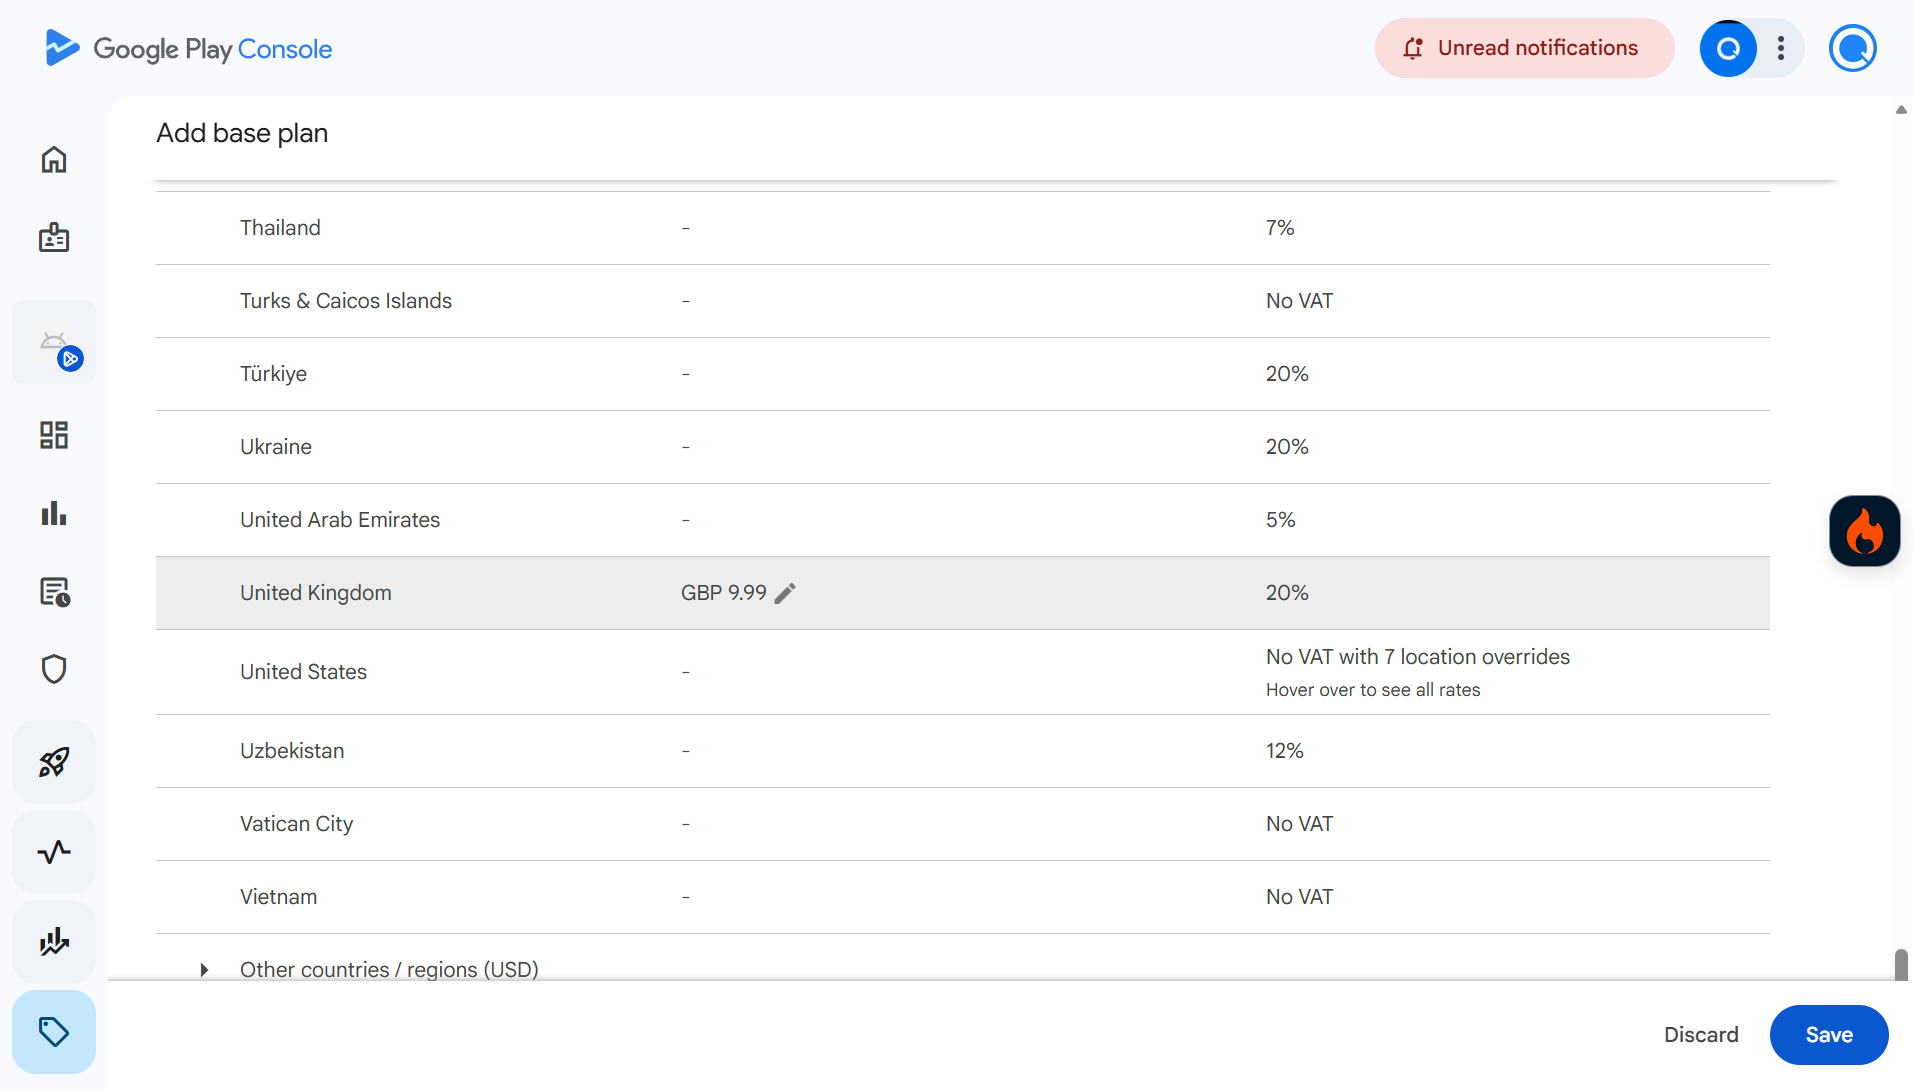
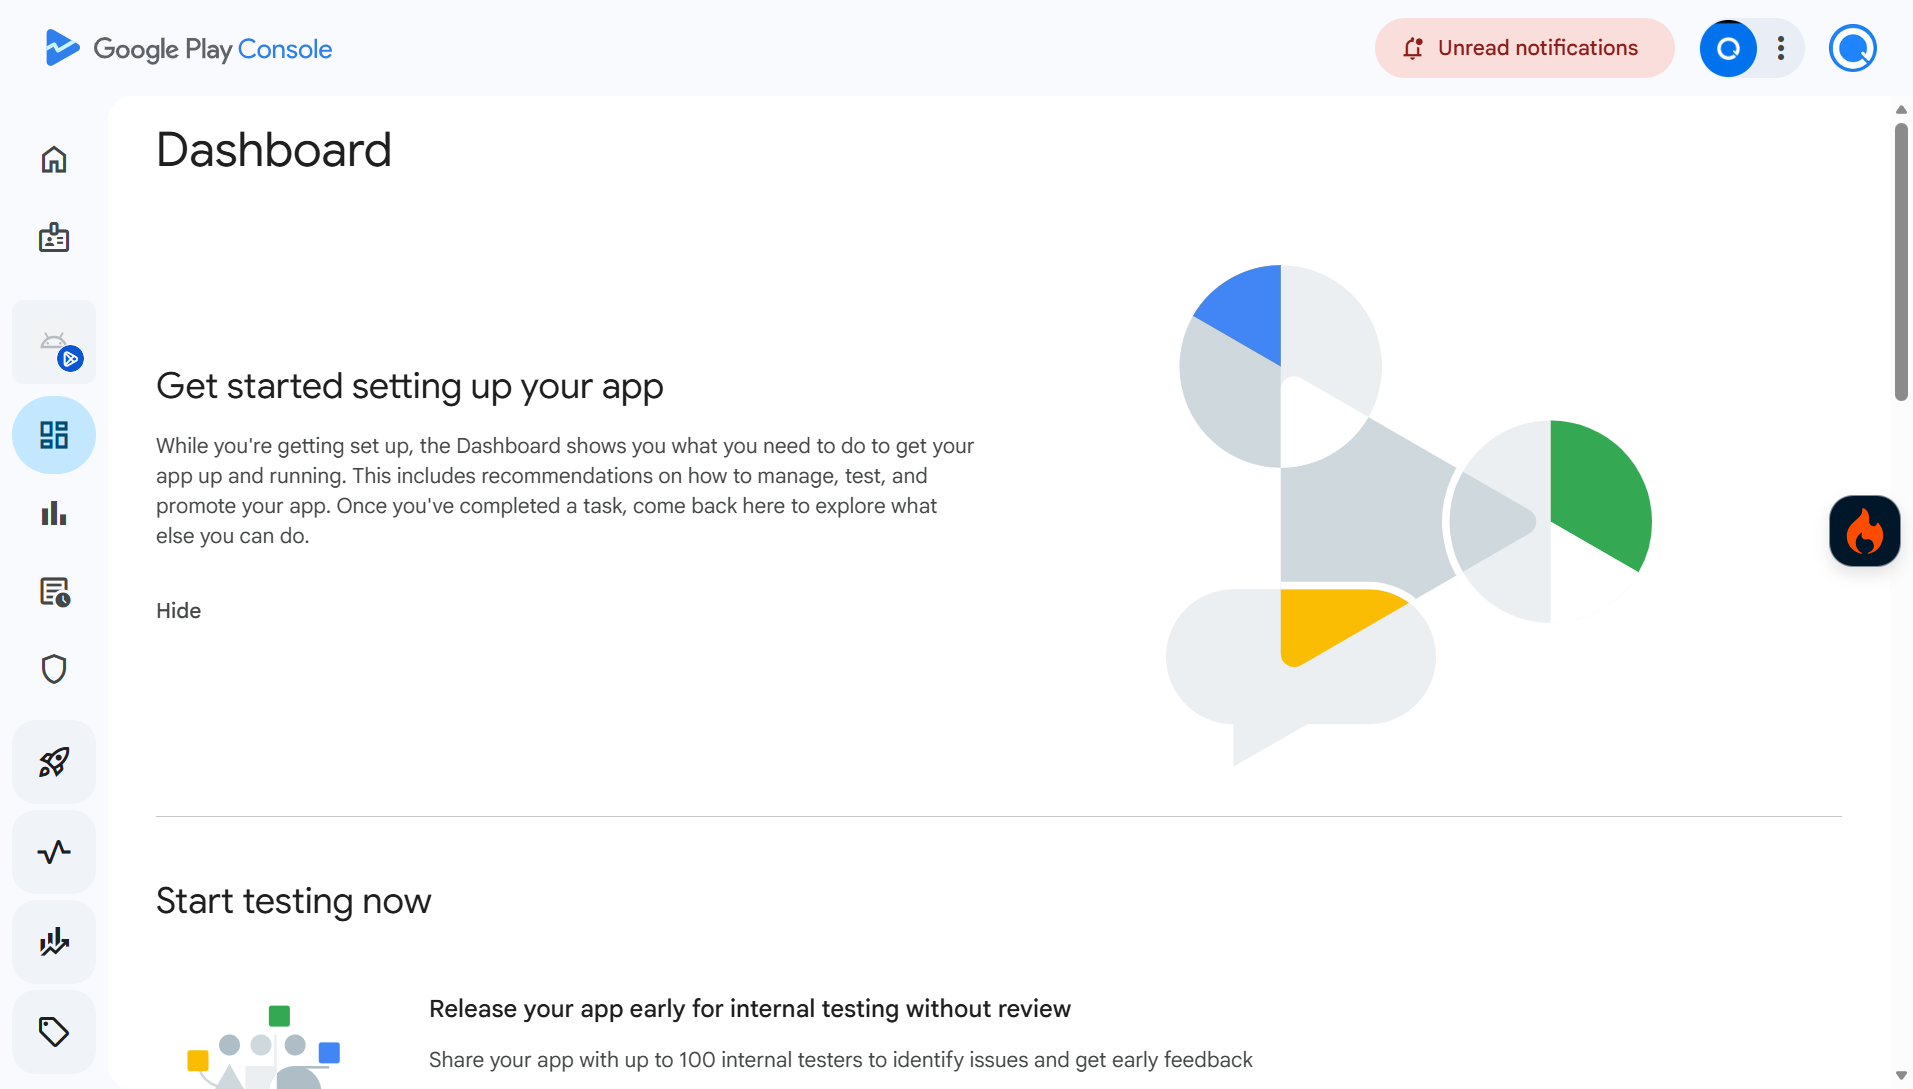
Fix false 'map unreachable' toast: trust the engine over flags
Browser diagnosis: the map rendered fine (tiles visible) while the 8s safety
timer still declared 'Maps are unreachable' - it checked the loadedRef flag,
which misses the raster-fallback timing. Timer now calls map.areTilesLoaded():
rendered tiles clear the toast; only a genuinely tile-less map shows the
terminal message. SW bumped v4 so installed clients pick it up on next visit.
Verified live in Edge: toast empty, map rendering behind onboarding.

diff --git a/components/SolidMap.tsx b/components/SolidMap.tsx
@@ -247,11 +247,25 @@ export const SolidMap: React.FC<SolidMapProps> = ({
             setMapLoaded(true);
             setErrorState(null);
           });
-          // Terminal state: if the fallback hasn't settled, stop pretending it's loading.
+          // Safety net: if tiles genuinely never arrive, say so honestly.
+          // Check the engine, not a flag — tiles can render while 'load'/'idle'
+          // events race us (a rendered map must never be called unreachable).
           window.setTimeout(() => {
-            if (mapInstanceRef.current && !loadedRef.current) {
-              setErrorState('Maps are unreachable right now (offline or blocked network). Route planning and directions still work — tap Retry when you are back online.');
+            const m = mapInstanceRef.current;
+            if (!m || loadedRef.current) return;
+            let tilesReady = false;
+            try {
+              tilesReady = m.areTilesLoaded();
+            } catch {
+              tilesReady = false;
             }
+            if (tilesReady) {
+              loadedRef.current = true;
+              setMapLoaded(true);
+              setErrorState(null);
+              return;
+            }
+            setErrorState('Maps are unreachable right now (offline or blocked network). Route planning and directions still work — tap Retry when you are back online.');
           }, 8000);
         } catch {
           setErrorState(`Map failed to render: ${detail}`);

diff --git a/public/sw.js b/public/sw.js
@@ -1,5 +1,5 @@
-const SHELL_CACHE = 'solidmaps-shell-v3';
-const TILE_CACHE = 'solidmaps-tiles-v3';
+const SHELL_CACHE = 'solidmaps-shell-v4';
+const TILE_CACHE = 'solidmaps-tiles-v4';
 const SHELL = ['/', '/manifest.json', '/icon.svg'];
 
 self.addEventListener('install', (event) => {
